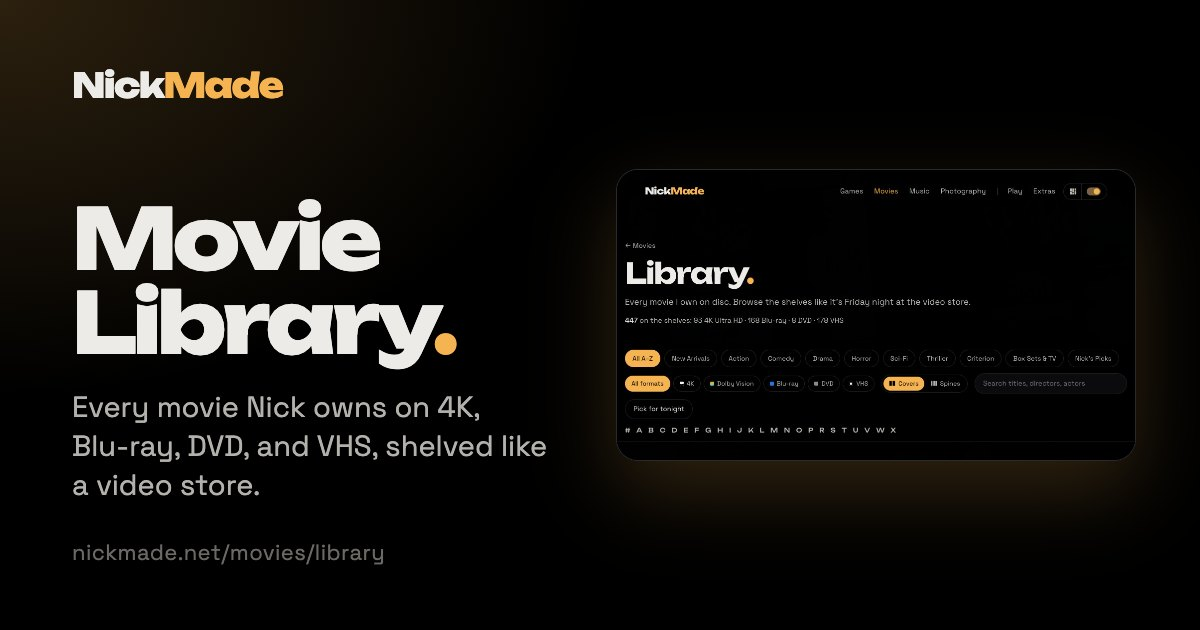
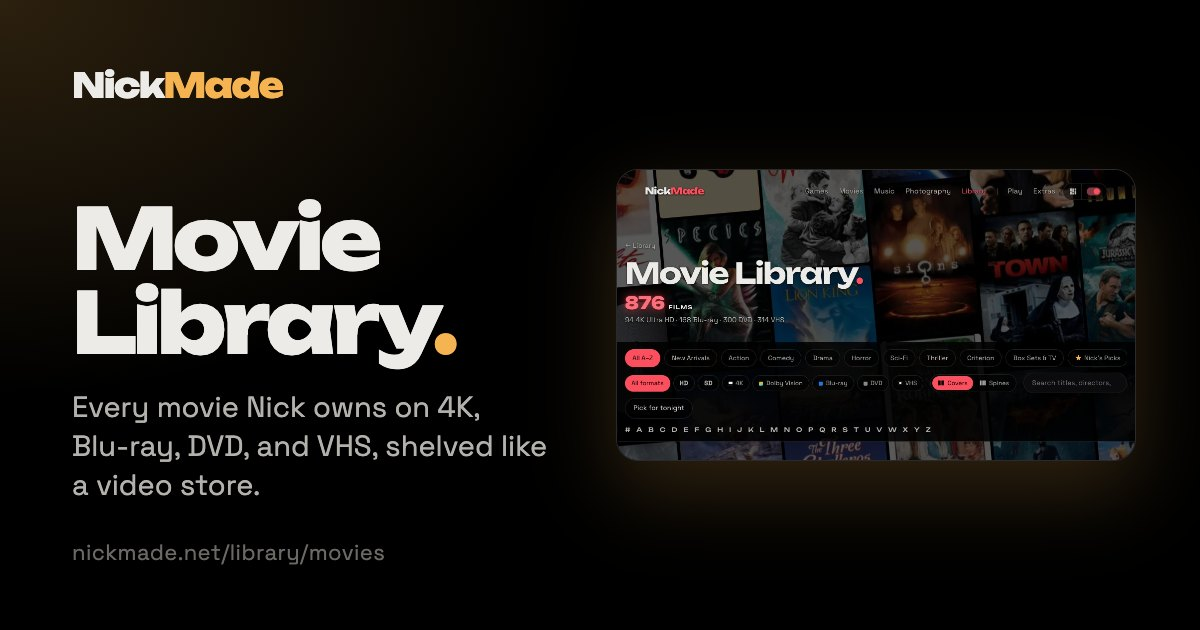
Library pages get their own link-preview cards; a vinyl card's record and cover show together

diff --git a/tools/make_og.js b/tools/make_og.js
@@ -20,15 +20,20 @@ const C = { mint: "#7ee0b5", violet: "#a78bfa", amber: "#f5b451", pink: "#ff7eb6
 // name: [title, line, color, picture]  picture: "tile:<section>", "shot:<path>", "tiles" (home) or "" (words only)
 const CARDS = {
   home: ["NickMade", "Games, movies, music, photography, and extras from Nick Simpson.", C.coral, "tiles"],
-  games: ["Games", "Nick Simpson's favorite games, reviewed.", C.violet, "tile:games"],
-  movies: ["Movies", "Nick Simpson's favorite movies, reviewed.", C.amber, "tile:movies"],
+  games: ["Games", "Nick's favorite games, reviewed.", C.violet, "tile:games"],
+  movies: ["Movies", "Nick's favorite movies, reviewed.", C.amber, "tile:movies"],
+  // the other library pages had Extras' card (Nick, 2026-11-10: "showed the wrong card for library vinyl")
+  libraryhub: ["Library", "Everything Nick collects: movies, vinyl records, books, and board games.", C.amber, "shot:/library/"],
+  vinyl: ["Vinyl Library", "Nick's vinyl records, in crates by artist.", C.amber, "shot:/library/vinyl/"],
+  books: ["Book Library", "Nick's bookshelf.", C.amber, "shot:/library/books/"],
+  boardgames: ["Board Game Library", "Nick's board game shelf.", C.amber, "shot:/library/board-games/"],
   library: ["Movie Library", "Every movie Nick owns on 4K, Blu\u2011ray, DVD, and VHS, shelved like a video store.", C.amber, "shot:/library/movies/"],
-  music: ["Music", "What Nick Simpson is listening to.", C.pink, "tile:music"],
+  music: ["Music", "What Nick is listening to.", C.pink, "tile:music"],
   photography: ["Photography", "Photography by Nick Simpson, in full resolution.", C.sky, "tile:photography"],
   play: ["Play", "Browser games by Nick Simpson. Free to play, nothing to install.", C.coral, "tile:play"],
   cats: ["The Cattery", "Make your own pixel-art cat and move it in with everyone else's.", C.coral, "shot:/play/cats/"],
   office: ["Nick's Office", "Look around Nick's office in pixel art. Most things lead somewhere.", C.coral, "shot:/play/office/"],
-  extras: ["Extras", "Hobbies, projects, and lists from Nick Simpson.", C.mint, "tile:extras"],
+  extras: ["Extras", "Hobbies, projects, and lists.", C.mint, "tile:extras"],
   golf: ["Golf", "Nick's recent rounds on Trackman, X-Golf, and real courses.", C.mint, "shot:/extras/golf/"],
   golfweather: ["Golf weather", "The best times to play golf this week near any US ZIP code.", C.mint, "shot:/extras/golf-weather/"],
   scorecard: ["Scorecard", "A simple score tracker for real golf courses, even with no signal.", C.mint, "shot:/extras/scorecard/"],
@@ -49,7 +54,7 @@ function card(name, [title, line, color, pic], shot) {
   } else if (pic.startsWith("tile:")) picture = '<img class="frame" src="' + dataUrl(path.join(ROOT, "assets/gifs", pic.slice(5) + ".jpg")) + '">';
   else if (shot) picture = '<img class="frame" src="' + dataUrl(shot) + '">';
   const words = !picture;
-  const url = name === "home" ? "nickmade.net" : "nickmade.net" + ({ cats: "/play/cats", office: "/play/office", library: "/library/movies", golf: "/extras/golf", golfweather: "/extras/golf-weather", scorecard: "/extras/scorecard", rapture: "/extras/rapture" }[name] || "/" + name);
+  const url = name === "home" ? "nickmade.net" : "nickmade.net" + ({ cats: "/play/cats", office: "/play/office", library: "/library/movies", libraryhub: "/library", vinyl: "/library/vinyl", books: "/library/books", boardgames: "/library/board-games", golf: "/extras/golf", golfweather: "/extras/golf-weather", scorecard: "/extras/scorecard", rapture: "/extras/rapture" }[name] || "/" + name);
   return `<!doctype html><html><head><meta charset="utf-8">${FONTS}<style>
   * { box-sizing: border-box; margin: 0; }
   body { width: 1200px; height: 630px; overflow: hidden; background: #000; color: #ecebe7; font-family: "Space Grotesk", sans-serif; position: relative;
@@ -85,8 +90,10 @@ function card(name, [title, line, color, pic], shot) {
     if (spec[3].startsWith("shot:")) {
       // the live page at 1040x585, shown at half size in the card (sharp), after it has drawn
       await page.setViewport({ width: 1040, height: 585, deviceScaleFactor: 1 });
+      await page.bringToFront(); // (a tab behind the cards' gets no animation frames: the counts stuck at 22, shelves empty)
       await page.goto(SITE + spec[3].slice(5), { waitUntil: "networkidle2", timeout: 45000 }).catch(() => {});
-      await new Promise((r) => setTimeout(r, 4000));
+      // (the library shelves fill in from the Worker, then their cover wall: longer)
+      await new Promise((r) => setTimeout(r, /^\/library\//.test(spec[3].slice(5)) ? 15000 : 4000));
       shot = path.join(tmp, name + ".jpg");
       await page.screenshot({ path: shot, type: "jpeg", quality: 92 });
     }

diff --git a/assets/js/collection.js b/assets/js/collection.js
@@ -597,6 +597,18 @@
             (KIND === "vinyl" ? '<div class="lib-covers coll-backs coll-card-backs" hidden>' + '<p class="coll-scan"><button type="button" class="pill-btn coll-scan-btn" data-side="back" data-id="' + esc(d.id) + '">Upload your own scan</button><input type="file" accept="image/*" hidden></p>' + '<div class="lib-cover-list" role="group" aria-label="Back cover"></div><p class="coll-msg"></p></div>' : "") : "") +
         "</div>" +
       "</div>";
+    // the record and its sleeve show together once the cover has loaded (Nick, 2026-11-10: the record showed first, a
+    // blip, then the cover over it); at most 4 s, so a cover that never comes doesn't hide the record
+    if (KIND === "vinyl") {
+      var lf0 = dialog.querySelector(".lib-front"), im0 = lf0 && lf0.querySelector("img.coll-cover");
+      if (im0 && !(im0.complete && im0.naturalWidth)) {
+        lf0.classList.add("cover-wait");
+        var shown = function () { lf0.classList.remove("cover-wait"); };
+        im0.addEventListener("load", shown, { once: true });
+        im0.addEventListener("error", shown, { once: true });
+        setTimeout(shown, 4000);
+      }
+    }
     if (!dialog.open) dialog.showModal();
     dialog.dataset.item = d.id;
     if (KIND === "games") loadHowTo();

diff --git a/assets/css/site.css b/assets/css/site.css
@@ -3708,6 +3708,9 @@ img.developing { animation: develop 2.6s cubic-bezier(0.3, 0, 0.2, 1) both; }
    comes, and stays half out, the album's cover printed on its label */
 .coll-vinyl .lib-back { grid-template-columns: 330px 1fr; }
 .coll-vinyl .lib-front { width: 240px; }
+/* (until its cover has loaded, the record and sleeve wait hidden, then show together: collection.js cover-wait) */
+.coll-vinyl .lib-front > * { transition: opacity .15s; }
+.coll-vinyl .lib-front.cover-wait > * { opacity: 0; }
 .coll-vinyl .coll-cover { position: relative; z-index: 1; aspect-ratio: 1; object-fit: cover; }
 .coll-disc { position: absolute; z-index: 0; top: 3%; left: 3%; width: 94%; aspect-ratio: 1; border-radius: 50%;
   background: conic-gradient(from 20deg, transparent 0 8%, rgba(255, 255, 255, 0.07) 13%, transparent 18% 58%, rgba(255, 255, 255, 0.05) 63%, transparent 68%),

diff --git a/library/index.html b/library/index.html
@@ -11,7 +11,7 @@
   <meta property="og:title" content="Library · NickMade">
   <meta property="og:description" content="Everything Nick Simpson collects: movies, vinyl records, books, and board games.">
   <meta property="og:url" content="https://nickmade.net/library/">
-  <meta property="og:image" content="https://nickmade.net/assets/og/extras.jpg">
+  <meta property="og:image" content="https://nickmade.net/assets/og/libraryhub.jpg">
   <meta property="og:image:width" content="1200">
   <meta property="og:image:height" content="630">
   <meta name="twitter:card" content="summary_large_image">

diff --git a/library/vinyl/index.html b/library/vinyl/index.html
@@ -11,7 +11,7 @@
   <meta property="og:title" content="Vinyl Library · NickMade">
   <meta property="og:description" content="Nick Simpson's vinyl records, in crates by artist.">
   <meta property="og:url" content="https://nickmade.net/library/vinyl/">
-  <meta property="og:image" content="https://nickmade.net/assets/og/extras.jpg">
+  <meta property="og:image" content="https://nickmade.net/assets/og/vinyl.jpg">
   <meta property="og:image:width" content="1200">
   <meta property="og:image:height" content="630">
   <meta name="twitter:card" content="summary_large_image">

diff --git a/library/board-games/index.html b/library/board-games/index.html
@@ -11,7 +11,7 @@
   <meta property="og:title" content="Board Game Library · NickMade">
   <meta property="og:description" content="Nick Simpson's board game shelf.">
   <meta property="og:url" content="https://nickmade.net/library/board-games/">
-  <meta property="og:image" content="https://nickmade.net/assets/og/extras.jpg">
+  <meta property="og:image" content="https://nickmade.net/assets/og/boardgames.jpg">
   <meta property="og:image:width" content="1200">
   <meta property="og:image:height" content="630">
   <meta name="twitter:card" content="summary_large_image">

diff --git a/library/books/index.html b/library/books/index.html
@@ -11,7 +11,7 @@
   <meta property="og:title" content="Book Library · NickMade">
   <meta property="og:description" content="Nick Simpson's bookshelf.">
   <meta property="og:url" content="https://nickmade.net/library/books/">
-  <meta property="og:image" content="https://nickmade.net/assets/og/extras.jpg">
+  <meta property="og:image" content="https://nickmade.net/assets/og/books.jpg">
   <meta property="og:image:width" content="1200">
   <meta property="og:image:height" content="630">
   <meta name="twitter:card" content="summary_large_image">
